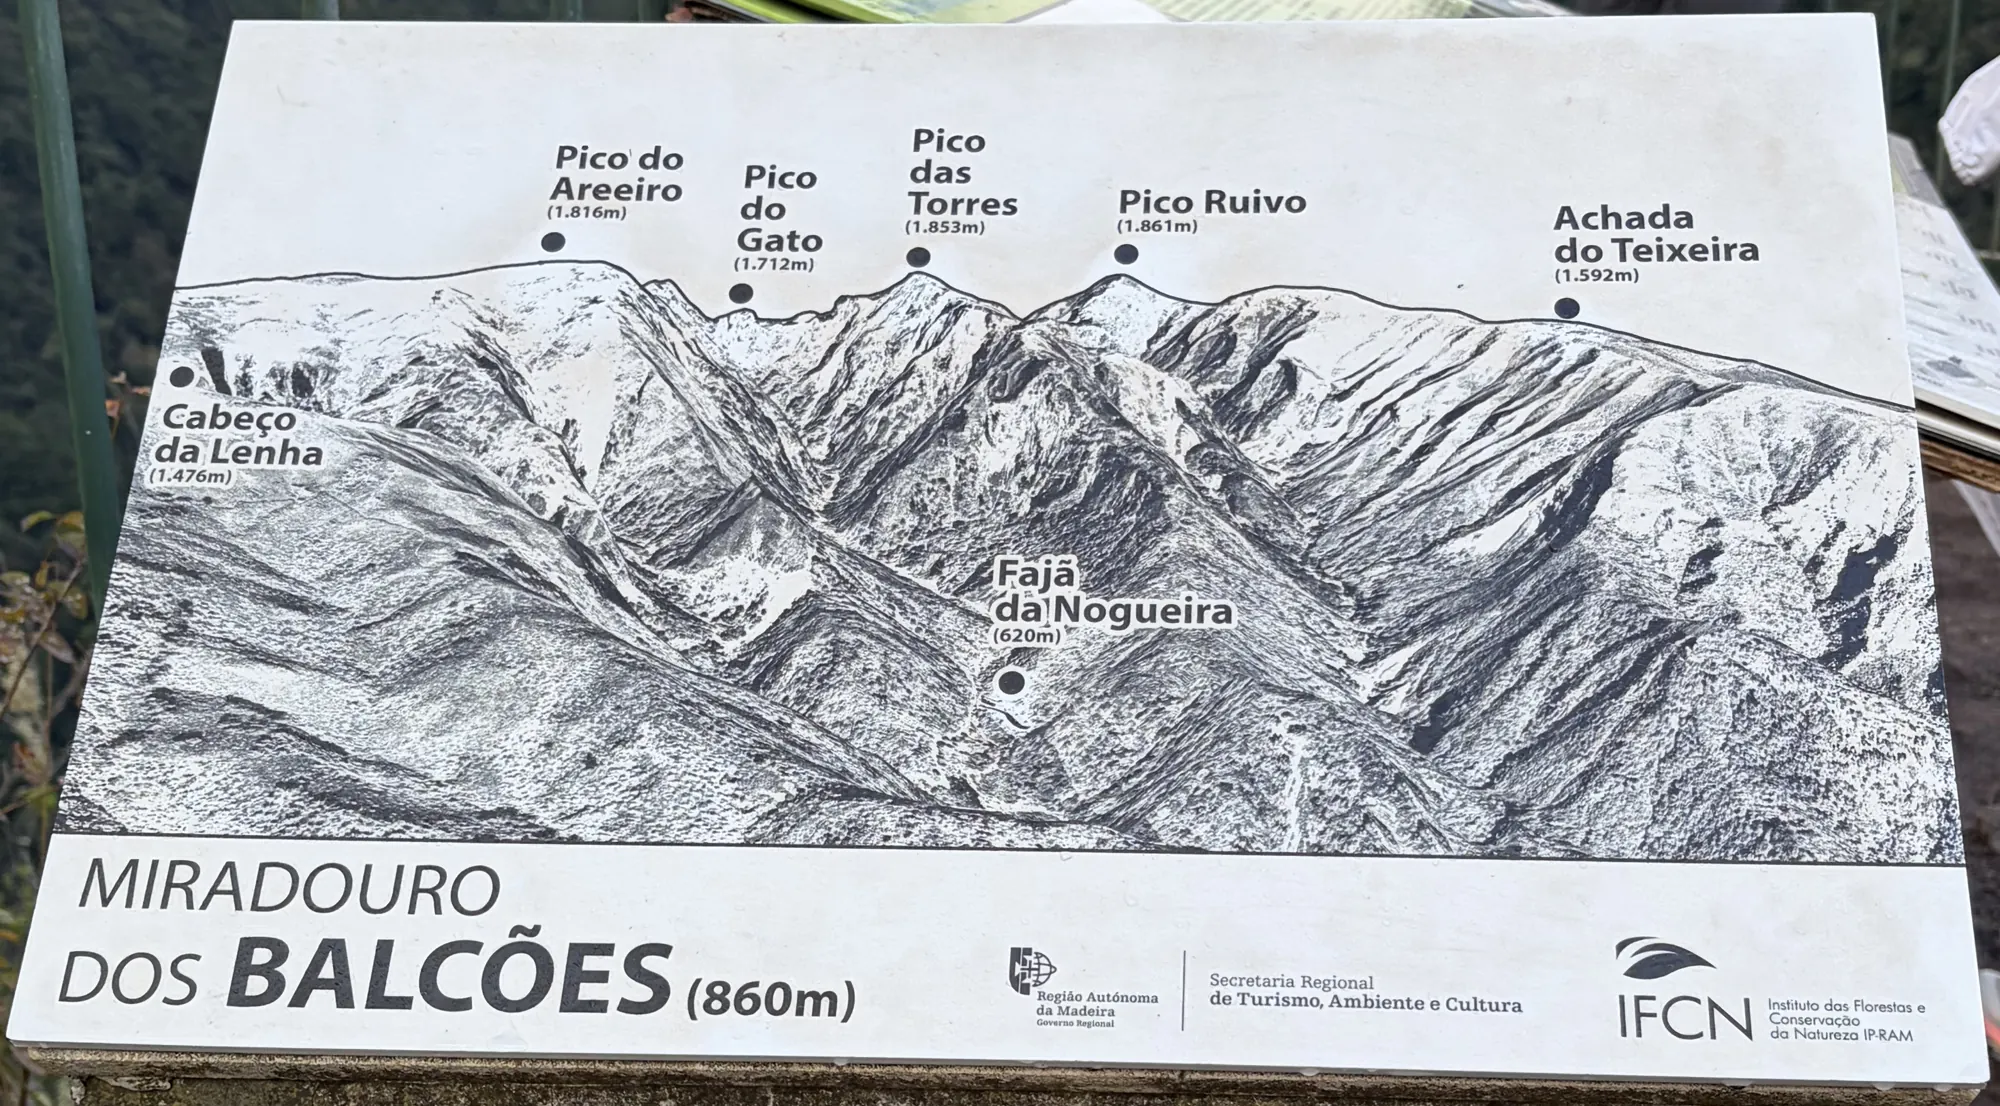
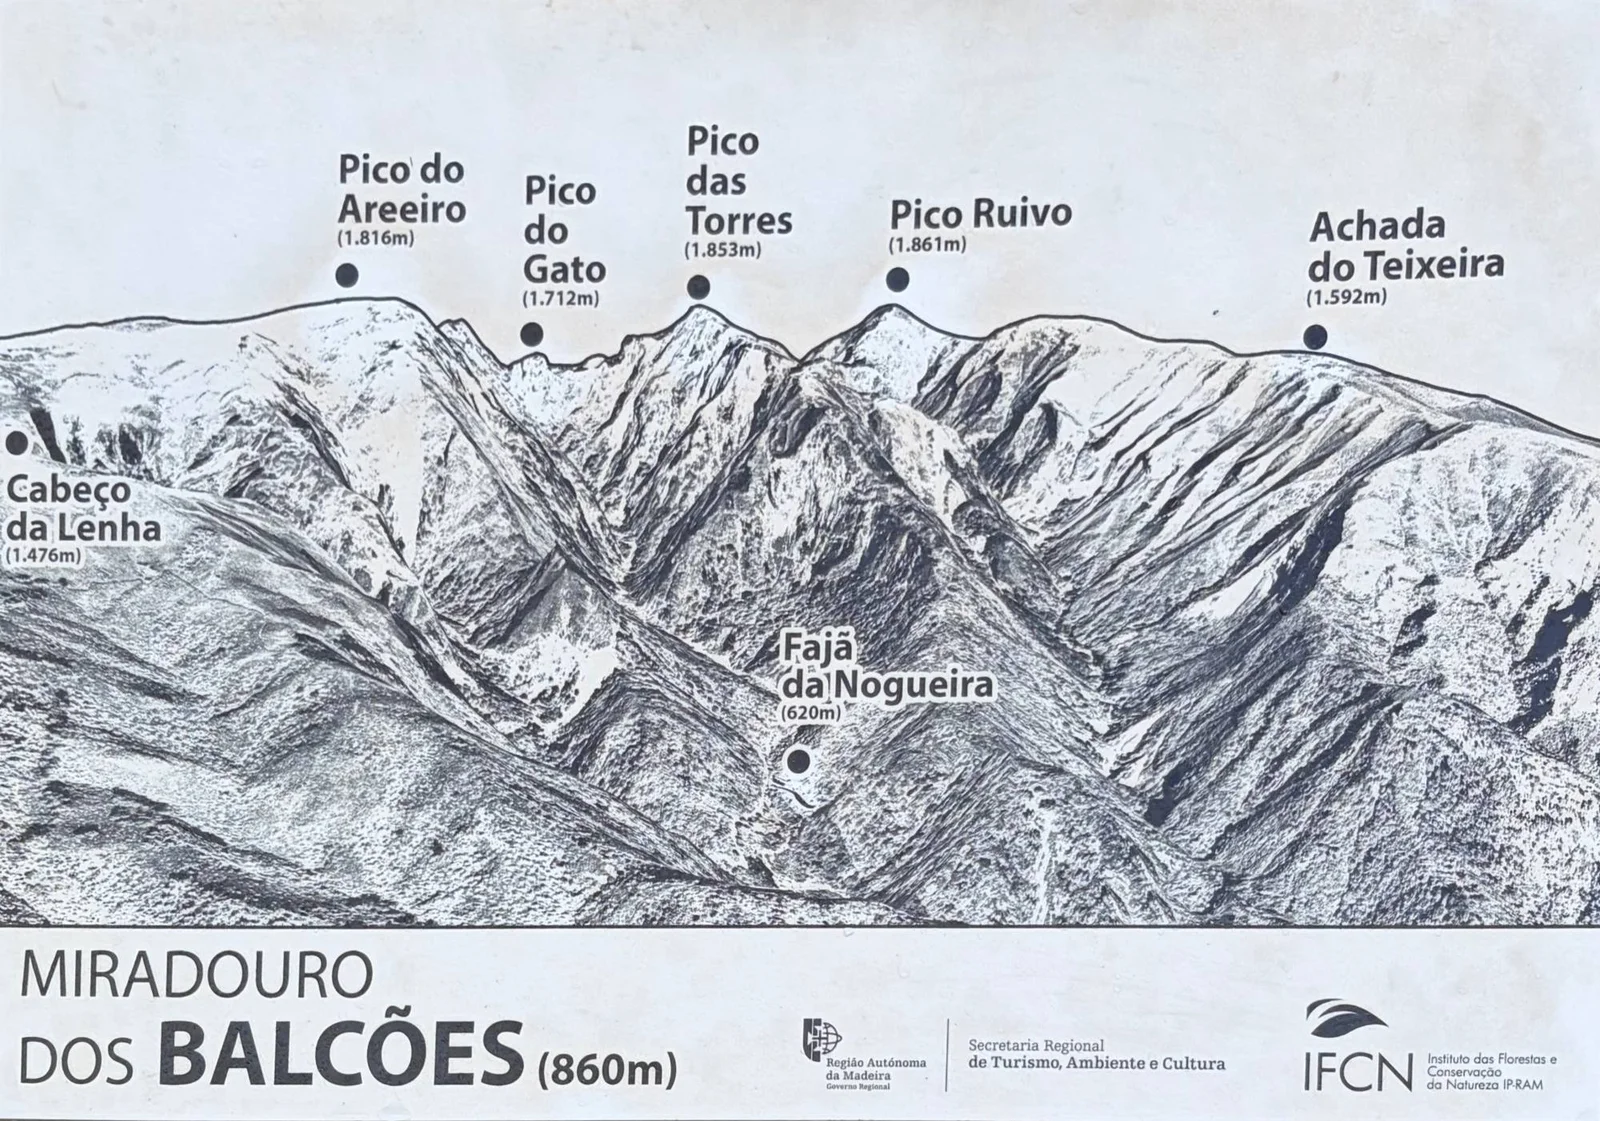
PR11 Balcões: viewpoint panel now the owner's straight-on photo instead of the crop from IMG_2648
Claude-Session: https://claude.ai/code/session_01PWvCt9R8vDb5tSa6RxNCXY

diff --git a/fr/balcoes/index.html b/fr/balcoes/index.html
@@ -491,7 +491,7 @@ a.tname:hover{text-decoration:underline}
 <section id="viewpoint">
   <h2>Ce que l'on voit du belvédère des Balcões</h2>
   <p>Le panneau de l'IFCN au belvédère (860 m) nomme l'horizon : les montagnes centrales, du Pico do Areeiro au Pico Ruivo, avec la Fajã da Nogueira tout en bas dans la vallée. Par temps nuageux les sommets peuvent être cachés : une matinée dégagée est idéale.</p>
-  <figure class="trk-photo trk-wide"><a href="/img/balcoes/viewpoint-panel-full.webp" target="_blank" rel="noopener"><img src="/img/balcoes/viewpoint-panel.webp" alt="Panneau de l&#x27;IFCN au belvédère des Balcões nommant les sommets avec leur altitude" loading="lazy" width="1000" height="553"></a><figcaption>Le panneau de l'IFCN au belvédère des Balcões. Touchez pour l'agrandir.</figcaption></figure>
+  <figure class="trk-photo trk-wide"><a href="/img/balcoes/viewpoint-panel-full.webp" target="_blank" rel="noopener"><img src="/img/balcoes/viewpoint-panel.webp" alt="Panneau de l&#x27;IFCN au belvédère des Balcões nommant les sommets avec leur altitude" loading="lazy" width="1000" height="700"></a><figcaption>Le panneau de l'IFCN au belvédère des Balcões. Touchez pour l'agrandir.</figcaption></figure>
   <table class="ftab trk-vp"><tr><th scope="col">Lieu</th><th scope="col">Altitude</th></tr><tr><th scope="row">Pico Ruivo</th><td>1 861 m</td></tr><tr><th scope="row">Pico das Torres</th><td>1 853 m</td></tr><tr><th scope="row">Pico do Areeiro</th><td>1 816 m</td></tr><tr><th scope="row">Pico do Gato</th><td>1 712 m</td></tr><tr><th scope="row">Achada do Teixeira</th><td>1 592 m</td></tr><tr><th scope="row">Cabeço da Lenha</th><td>1 476 m</td></tr><tr><th scope="row">Fajã da Nogueira (tout en bas dans la vallée)</th><td>620 m</td></tr></table>
 </section>
 <section id="signal" data-qa="Bon à Ribeiro Frio. Aucun sur un tronçon entre environ 300 et 600 m, puis faible à moyen jusqu&#x27;au belvédère.">

diff --git a/pl/balcoes/index.html b/pl/balcoes/index.html
@@ -491,7 +491,7 @@ a.tname:hover{text-decoration:underline}
 <section id="viewpoint">
   <h2>Co widać z punktu widokowego Balcões</h2>
   <p>Tablica IFCN na punkcie widokowym (860 m) podpisuje horyzont: centralne góry od Pico do Areeiro po Pico Ruivo, a głęboko w dolinie Fajã da Nogueira. Przy chmurach szczyty mogą być zasłonięte, więc najlepszy jest pogodny poranek.</p>
-  <figure class="trk-photo trk-wide"><a href="/img/balcoes/viewpoint-panel-full.webp" target="_blank" rel="noopener"><img src="/img/balcoes/viewpoint-panel.webp" alt="Tablica IFCN na punkcie widokowym Balcões z nazwami szczytów i ich wysokościami" loading="lazy" width="1000" height="553"></a><figcaption>Tablica IFCN na punkcie widokowym Balcões. Dotknij, aby zobaczyć w pełnym rozmiarze.</figcaption></figure>
+  <figure class="trk-photo trk-wide"><a href="/img/balcoes/viewpoint-panel-full.webp" target="_blank" rel="noopener"><img src="/img/balcoes/viewpoint-panel.webp" alt="Tablica IFCN na punkcie widokowym Balcões z nazwami szczytów i ich wysokościami" loading="lazy" width="1000" height="700"></a><figcaption>Tablica IFCN na punkcie widokowym Balcões. Dotknij, aby zobaczyć w pełnym rozmiarze.</figcaption></figure>
   <table class="ftab trk-vp"><tr><th scope="col">Miejsce</th><th scope="col">Wysokość</th></tr><tr><th scope="row">Pico Ruivo</th><td>1861 m</td></tr><tr><th scope="row">Pico das Torres</th><td>1853 m</td></tr><tr><th scope="row">Pico do Areeiro</th><td>1816 m</td></tr><tr><th scope="row">Pico do Gato</th><td>1712 m</td></tr><tr><th scope="row">Achada do Teixeira</th><td>1592 m</td></tr><tr><th scope="row">Cabeço da Lenha</th><td>1476 m</td></tr><tr><th scope="row">Fajã da Nogueira (głęboko w dolinie)</th><td>620 m</td></tr></table>
 </section>
 <section id="signal" data-qa="Dobry w Ribeiro Frio. Brak na odcinku mniej więcej od 300 do 600 m, potem słaby do średniego aż do punktu widokowego.">

diff --git a/pt/balcoes/index.html b/pt/balcoes/index.html
@@ -492,7 +492,7 @@ a.tname:hover{text-decoration:underline}
 <section id="viewpoint">
   <h2>O que se vê do miradouro dos Balcões</h2>
   <p>O painel do IFCN no miradouro (860 m) identifica o horizonte: as montanhas centrais, do Pico do Areeiro ao Pico Ruivo, com a Fajã da Nogueira lá em baixo, no vale. Com nuvens os picos podem ficar escondidos, por isso uma manhã limpa é o ideal.</p>
-  <figure class="trk-photo trk-wide"><a href="/img/balcoes/viewpoint-panel-full.webp" target="_blank" rel="noopener"><img src="/img/balcoes/viewpoint-panel.webp" alt="Painel do IFCN no miradouro dos Balcões com os picos e as suas altitudes" loading="lazy" width="1000" height="553"></a><figcaption>O painel do IFCN no miradouro dos Balcões. Toque para ver em tamanho real.</figcaption></figure>
+  <figure class="trk-photo trk-wide"><a href="/img/balcoes/viewpoint-panel-full.webp" target="_blank" rel="noopener"><img src="/img/balcoes/viewpoint-panel.webp" alt="Painel do IFCN no miradouro dos Balcões com os picos e as suas altitudes" loading="lazy" width="1000" height="700"></a><figcaption>O painel do IFCN no miradouro dos Balcões. Toque para ver em tamanho real.</figcaption></figure>
   <table class="ftab trk-vp"><tr><th scope="col">Local</th><th scope="col">Altitude</th></tr><tr><th scope="row">Pico Ruivo</th><td>1861 m</td></tr><tr><th scope="row">Pico das Torres</th><td>1853 m</td></tr><tr><th scope="row">Pico do Areeiro</th><td>1816 m</td></tr><tr><th scope="row">Pico do Gato</th><td>1712 m</td></tr><tr><th scope="row">Achada do Teixeira</th><td>1592 m</td></tr><tr><th scope="row">Cabeço da Lenha</th><td>1476 m</td></tr><tr><th scope="row">Fajã da Nogueira (no vale, lá em baixo)</th><td>620 m</td></tr></table>
 </section>
 <section id="signal" data-qa="Boa no Ribeiro Frio. Nenhuma num troço entre cerca de 300 e 600 m, depois fraca a razoável até ao miradouro.">

diff --git a/de/balcoes/index.html b/de/balcoes/index.html
@@ -491,7 +491,7 @@ a.tname:hover{text-decoration:underline}
 <section id="viewpoint">
   <h2>Was man vom Aussichtspunkt Balcões sieht</h2>
   <p>Die IFCN-Tafel am Aussichtspunkt (860 m) benennt den Horizont: das zentrale Gebirge vom Pico do Areeiro bis zum Pico Ruivo, tief unten im Tal die Fajã da Nogueira. Bei Wolken können die Gipfel verdeckt sein, ein klarer Morgen ist daher ideal.</p>
-  <figure class="trk-photo trk-wide"><a href="/img/balcoes/viewpoint-panel-full.webp" target="_blank" rel="noopener"><img src="/img/balcoes/viewpoint-panel.webp" alt="IFCN-Tafel am Aussichtspunkt Balcões mit den Gipfeln und ihren Höhen" loading="lazy" width="1000" height="553"></a><figcaption>Die IFCN-Tafel am Aussichtspunkt Balcões. Tippen für volle Größe.</figcaption></figure>
+  <figure class="trk-photo trk-wide"><a href="/img/balcoes/viewpoint-panel-full.webp" target="_blank" rel="noopener"><img src="/img/balcoes/viewpoint-panel.webp" alt="IFCN-Tafel am Aussichtspunkt Balcões mit den Gipfeln und ihren Höhen" loading="lazy" width="1000" height="700"></a><figcaption>Die IFCN-Tafel am Aussichtspunkt Balcões. Tippen für volle Größe.</figcaption></figure>
   <table class="ftab trk-vp"><tr><th scope="col">Ort</th><th scope="col">Höhe</th></tr><tr><th scope="row">Pico Ruivo</th><td>1.861 m</td></tr><tr><th scope="row">Pico das Torres</th><td>1.853 m</td></tr><tr><th scope="row">Pico do Areeiro</th><td>1.816 m</td></tr><tr><th scope="row">Pico do Gato</th><td>1.712 m</td></tr><tr><th scope="row">Achada do Teixeira</th><td>1.592 m</td></tr><tr><th scope="row">Cabeço da Lenha</th><td>1.476 m</td></tr><tr><th scope="row">Fajã da Nogueira (tief unten im Tal)</th><td>620 m</td></tr></table>
 </section>
 <section id="signal" data-qa="Gut in Ribeiro Frio. Keiner auf einem Stück etwa 300–600 m nach dem Start, danach schwach bis mittel bis zum Aussichtspunkt.">

diff --git a/balcoes/index.html b/balcoes/index.html
@@ -491,7 +491,7 @@ a.tname:hover{text-decoration:underline}
 <section id="viewpoint">
   <h2>What you see from the Balcões viewpoint</h2>
   <p>IFCN's panel at the viewpoint (860 m) names the skyline: the central mountains from Pico do Areeiro to Pico Ruivo, with Fajã da Nogueira deep in the valley below. In cloud the peaks can be hidden, so a clear morning is best.</p>
-  <figure class="trk-photo trk-wide"><a href="/img/balcoes/viewpoint-panel-full.webp" target="_blank" rel="noopener"><img src="/img/balcoes/viewpoint-panel.webp" alt="IFCN panel at the Balcões viewpoint naming the peaks with their heights" loading="lazy" width="1000" height="553"></a><figcaption>IFCN's panel at the Balcões viewpoint. Tap to see it full size.</figcaption></figure>
+  <figure class="trk-photo trk-wide"><a href="/img/balcoes/viewpoint-panel-full.webp" target="_blank" rel="noopener"><img src="/img/balcoes/viewpoint-panel.webp" alt="IFCN panel at the Balcões viewpoint naming the peaks with their heights" loading="lazy" width="1000" height="700"></a><figcaption>IFCN's panel at the Balcões viewpoint. Tap to see it full size.</figcaption></figure>
   <table class="ftab trk-vp"><tr><th scope="col">Place</th><th scope="col">Height</th></tr><tr><th scope="row">Pico Ruivo</th><td>1,861 m</td></tr><tr><th scope="row">Pico das Torres</th><td>1,853 m</td></tr><tr><th scope="row">Pico do Areeiro</th><td>1,816 m</td></tr><tr><th scope="row">Pico do Gato</th><td>1,712 m</td></tr><tr><th scope="row">Achada do Teixeira</th><td>1,592 m</td></tr><tr><th scope="row">Cabeço da Lenha</th><td>1,476 m</td></tr><tr><th scope="row">Fajã da Nogueira (in the valley below)</th><td>620 m</td></tr></table>
 </section>
 <section id="signal" data-qa="Good at Ribeiro Frio. None for a stretch about 300–600 m in, then poor to fair to the viewpoint.">
